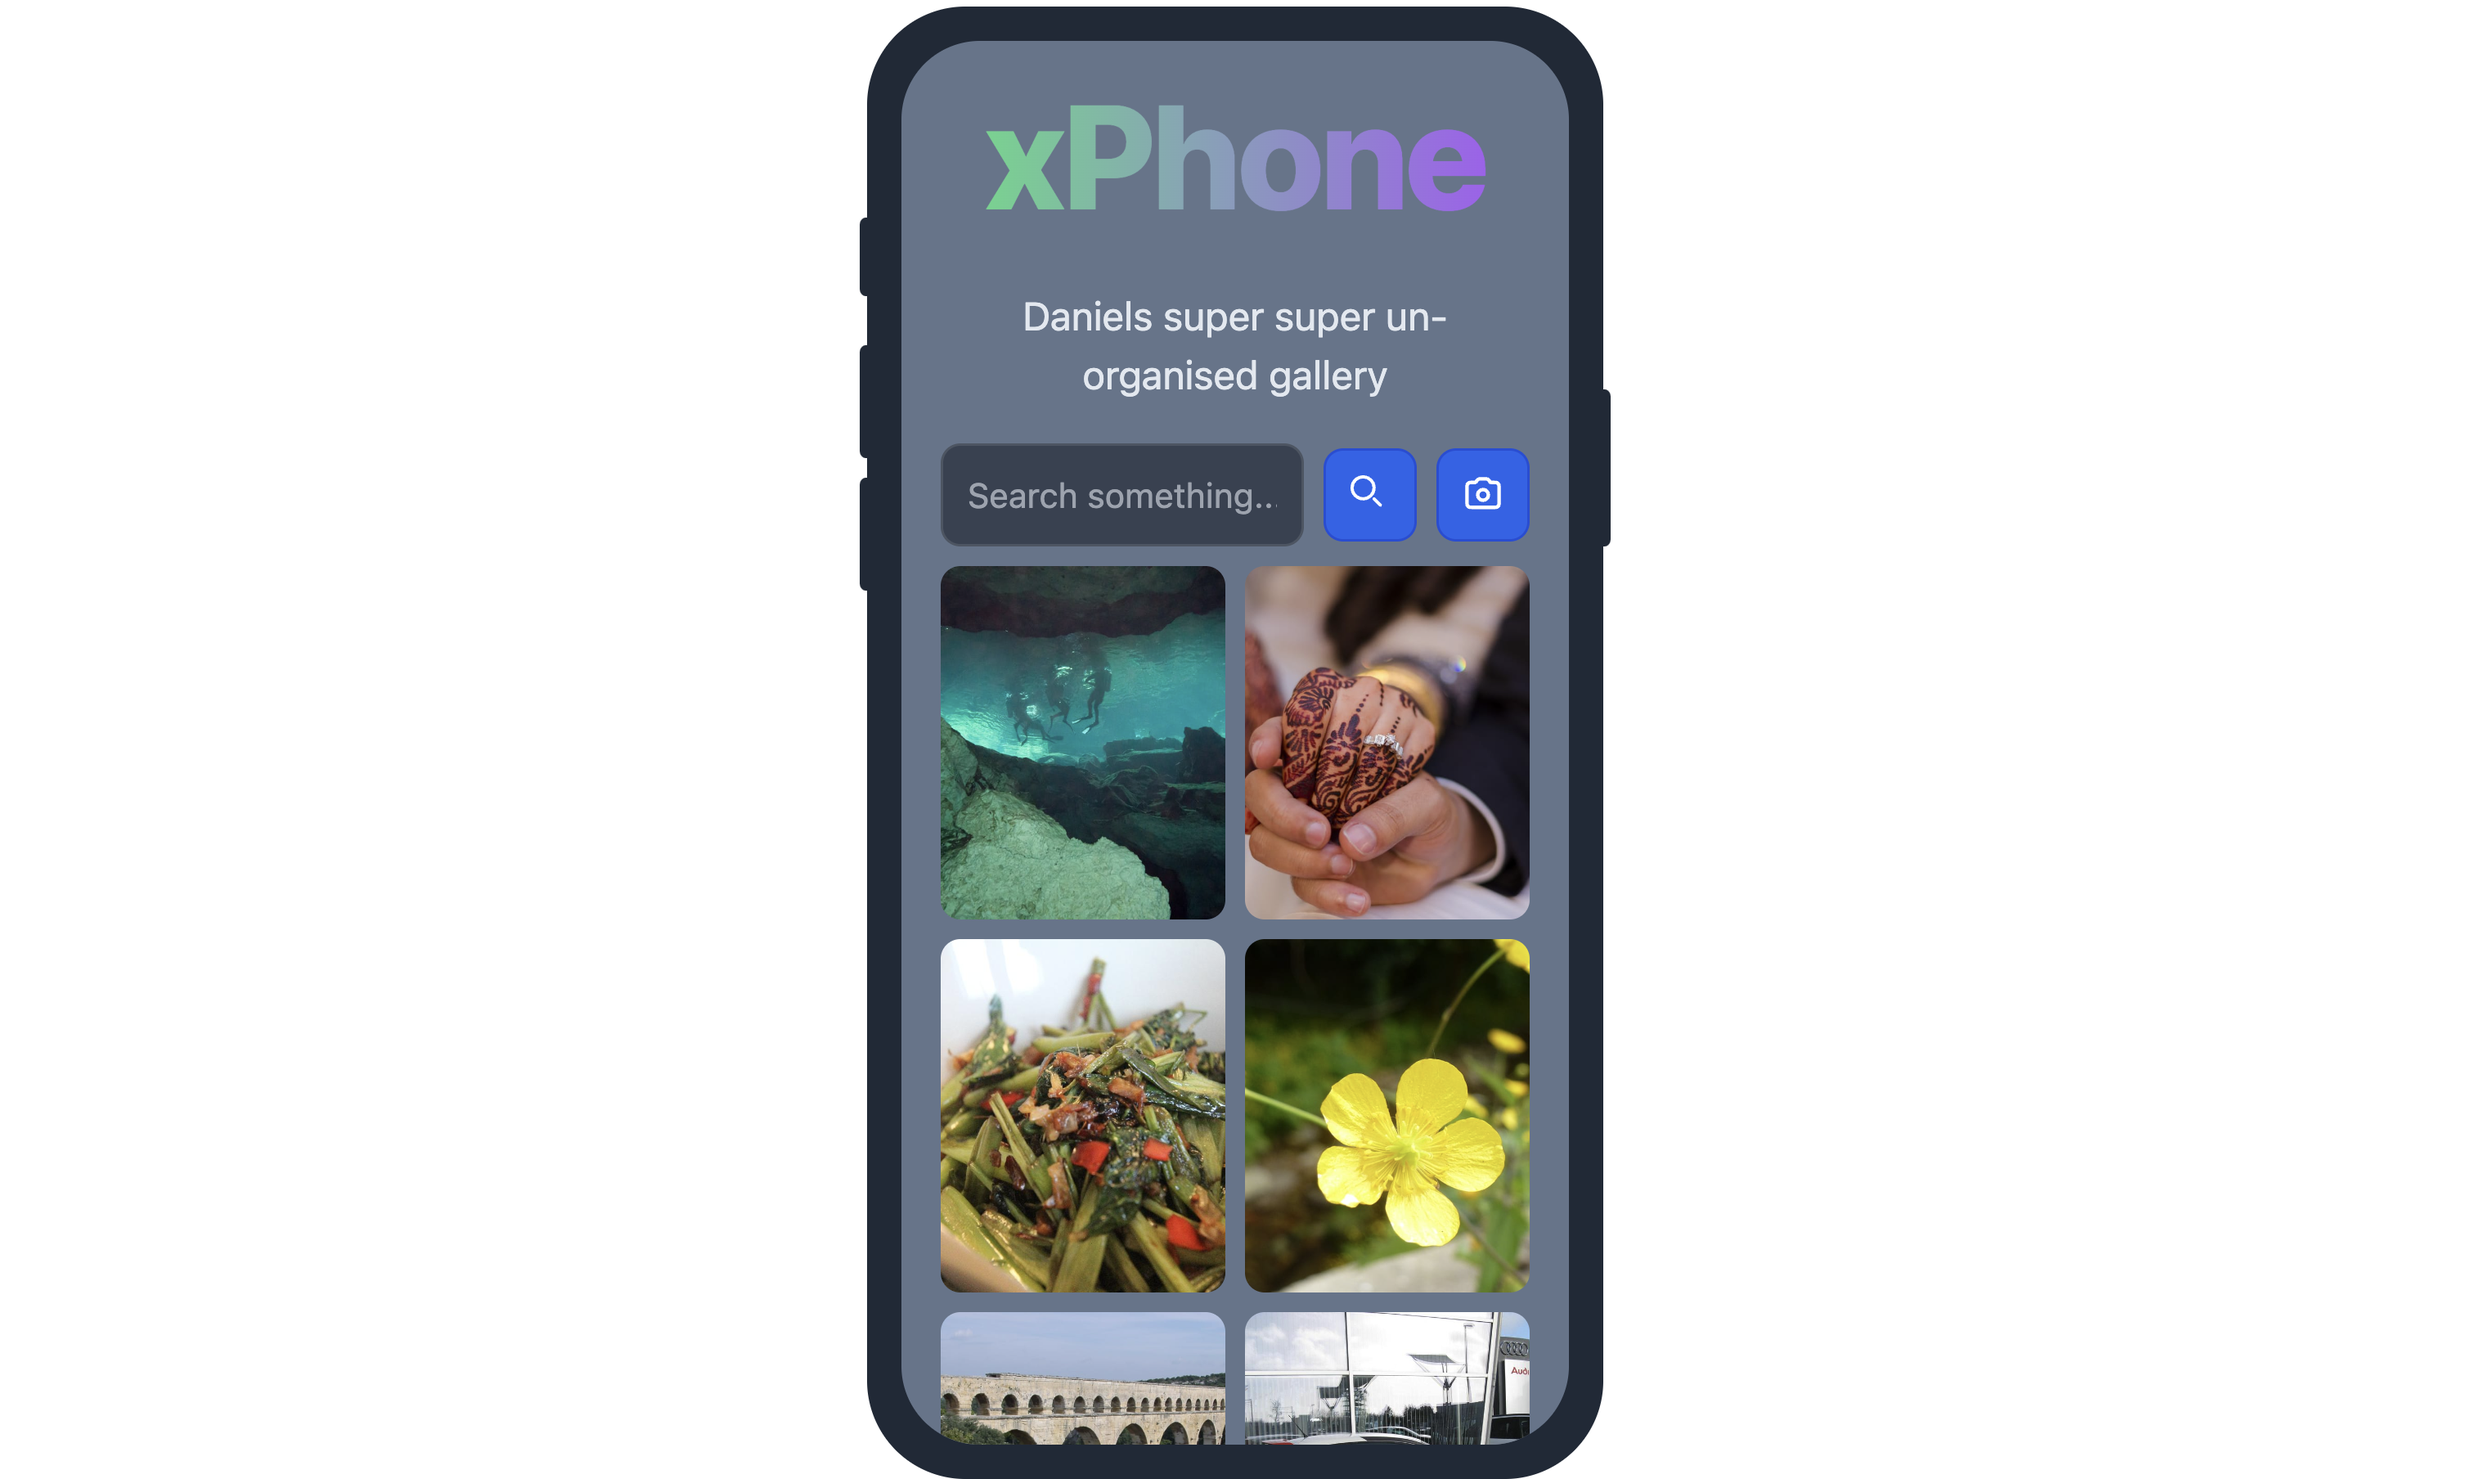
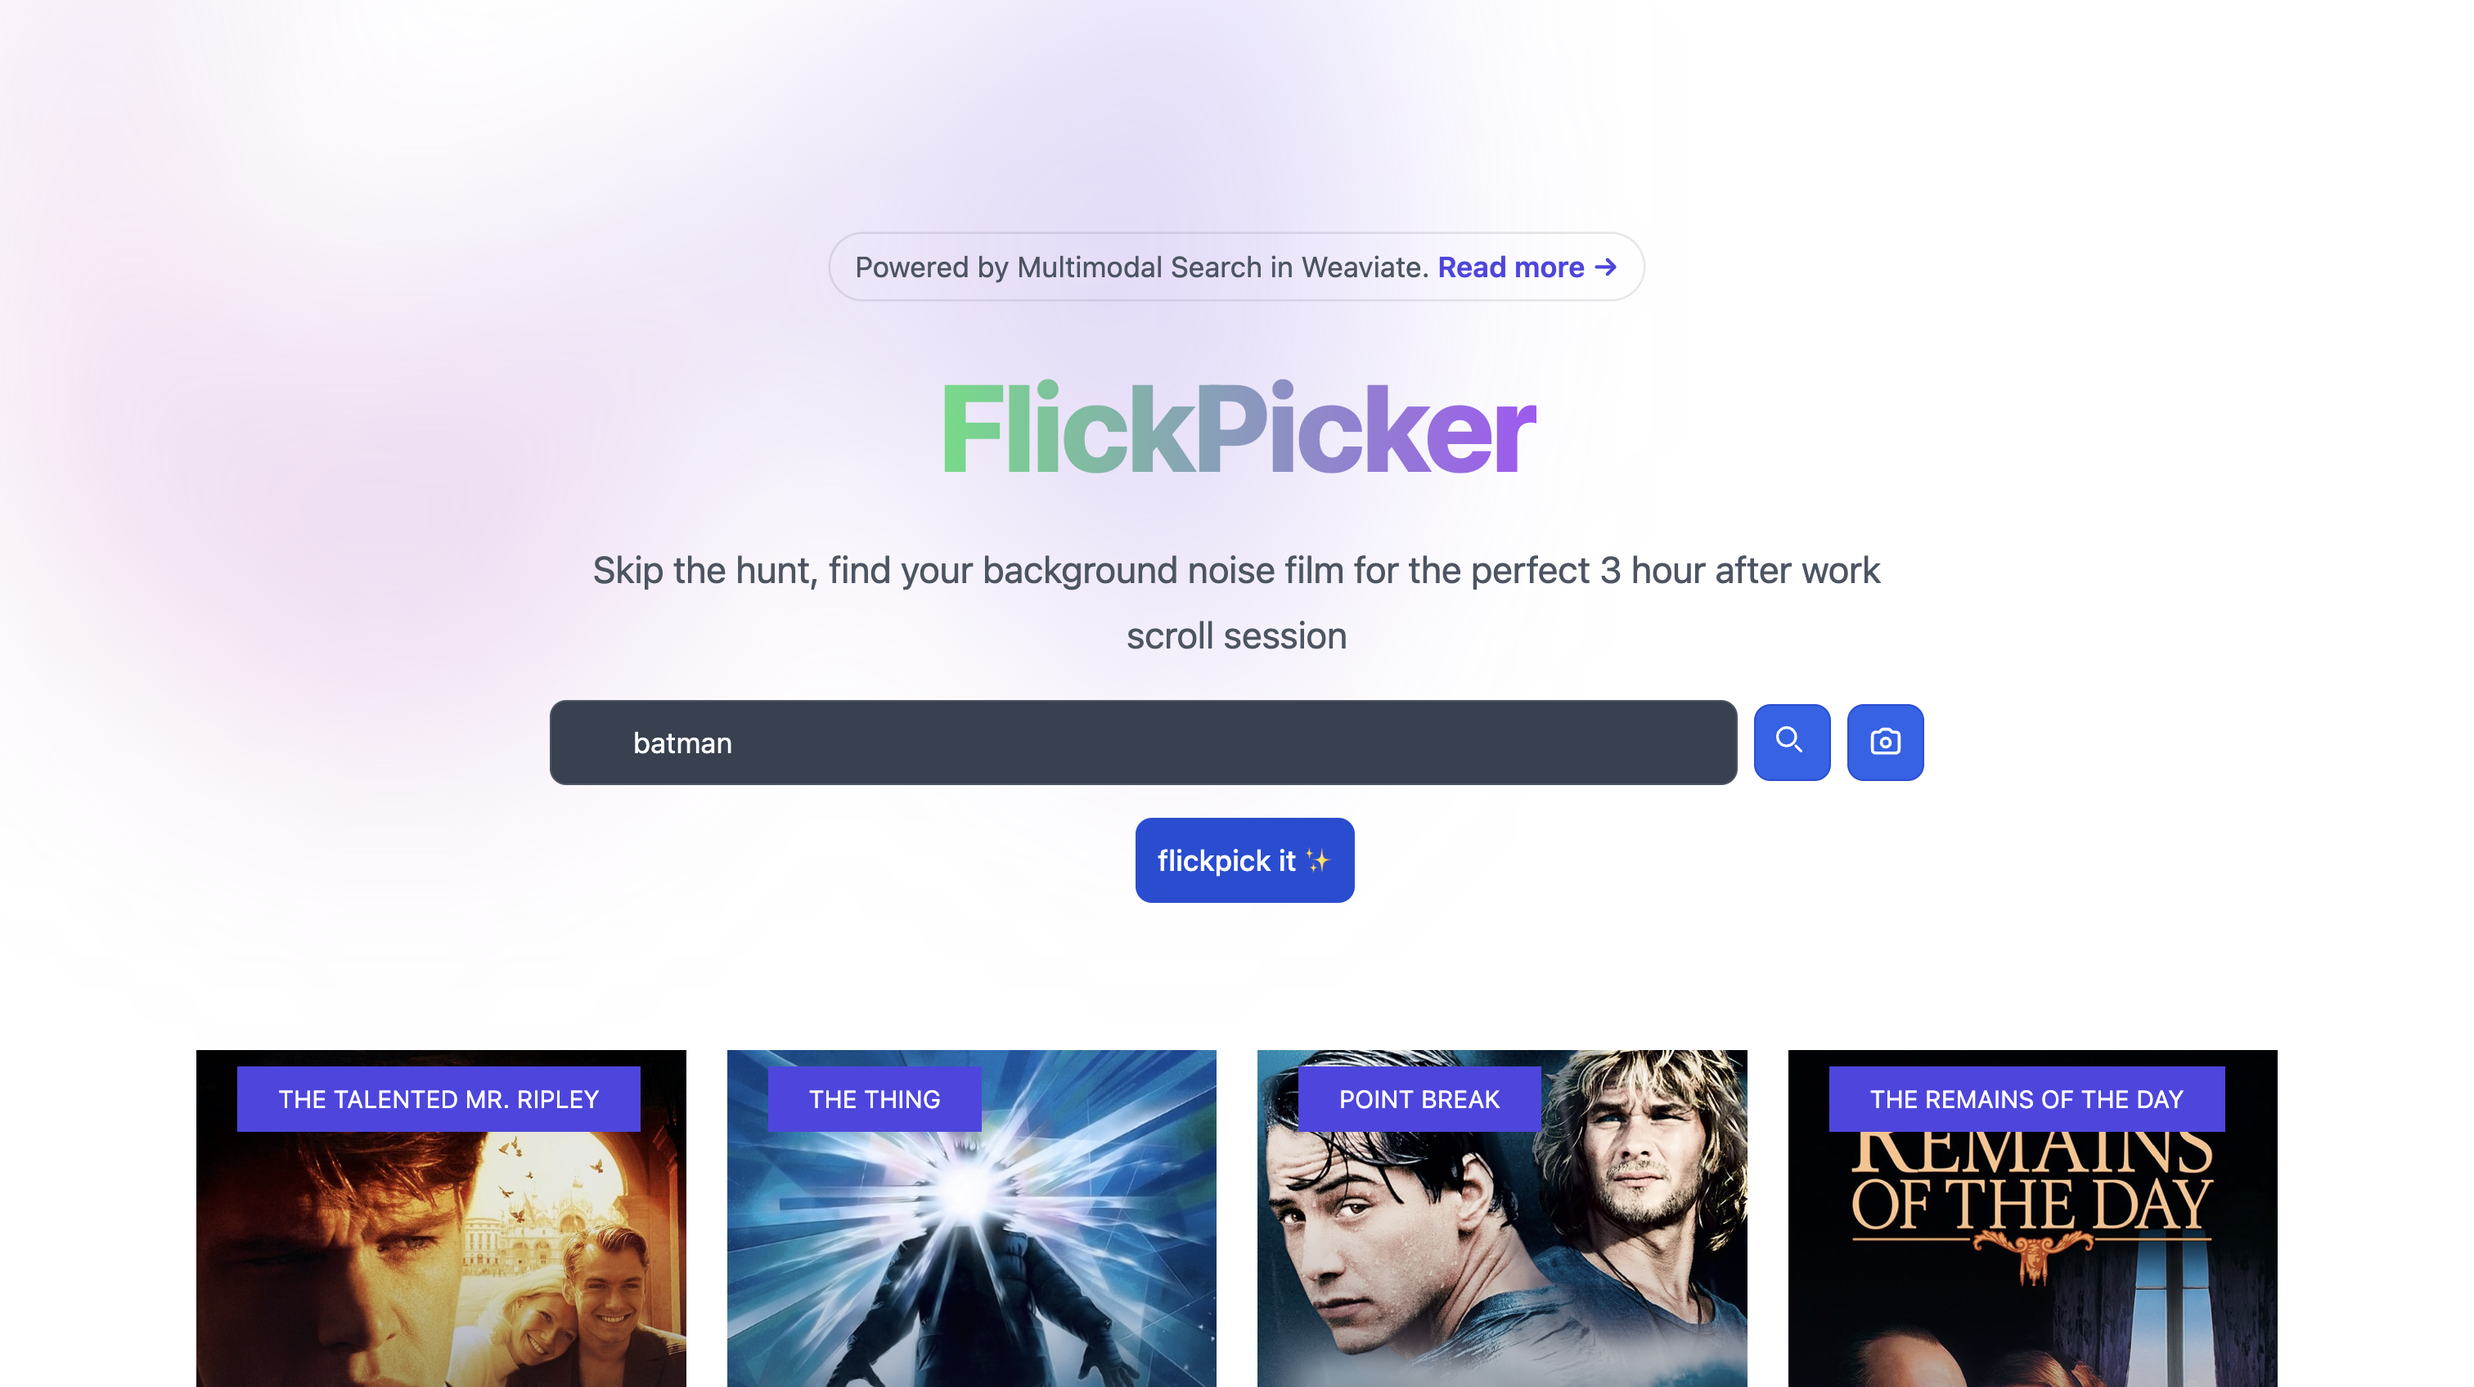
fixed cover

diff --git a/README.md b/README.md
@@ -1,4 +1,4 @@
-## This is a Multimodal Search demo built with [Weaviate](https://weaviate.io), [CLIP](https://openai.com/research/clip) and [Nuxt.js](https://nuxt.com/) 
+## This is a Multimodal Search demo built with [Weaviate](https://weaviate.io), [Vertex AI](https://openai.com/research/clip) and [Nuxt.js](https://nuxt.com/) 
 
 👨🏾🍳 Blogpost - [Building Multimodal AI in TypeScript
 ](https://weaviate.io/blog/multimodal-search-in-typescript)
@@ -15,24 +15,26 @@ git clone https://github.com/malgamves/flick-picker
 
 The repository lets us do three things
 1. Run the Nuxt.js Web App.
-2. Run an instance of Weaviate.
-3. Import images, and text into your Weaviate database.
+2. Import images, and text into your Weaviate database.
+3. Search like it's 2034! 
 
 
+### 🏗 Create a Weaviate Instance
 
-### 🏗 Running Weaviate  
-> Note that the first time you run it, Docker will download ~4.8GB multi2vec-clip Weaviate module, which contains the CLIP model.
+Create a Weaviate instance on Weaviate Cloud Services as described in [this guide](https://weaviate.io/developers/weaviate/quickstart#step-2-create-an-instance)
 
-To start the Weaviate instance, run the following command, which will use the `docker-compose.yml` file.
-```bash
-docker compose up -d
-```
+### 🦿 Create a `.env` file and add the following keys
+
+- your Google Vertex API key as `NUXT_VERTEX_API_KEY` (you can get this in your [Vertex AI settings](https://console.cloud.google.com/apis/credentials))
+- your Open AI API key as `NUXT_OPENAI` (you can get this in your [Open AI settings](https://platform.openai.com/account/api-keys))
+- your Weaviate API key as `NUXT_WEAVIATE_API_KEY` (you can get this in your [Weaviate dashboard](https://console.weaviate.cloud/dashboard) under sandbox details)
+- your Weaviate host URL as `NUXT_WEAVIATE_URL` (you can get this in your [Weaviate dashboard](https://console.weaviate.cloud/dashboard) under sandbox details)
 
 
 ### 📩 Importing Data
 > Before you can import data, add any files to their respective media type in the `public/` folder. You will have to download a dataset of [movie posters](https://drive.google.com/drive/folders/1BKLJmIt9YD0rTGImrHeUc91io5RjGm_l?usp=sharing) and place them in `/public/image`.
 
-With your data in the right folder, run `yarn install` to install all project dependencies and to import your data into Weaviate and initialise a collection, run:
+With your data in the right folder, run `yarn install` to install all project dependencies and to import your data into Weaviate and initialize a collection, run:
 ```bash
 yarn run import
 ```
